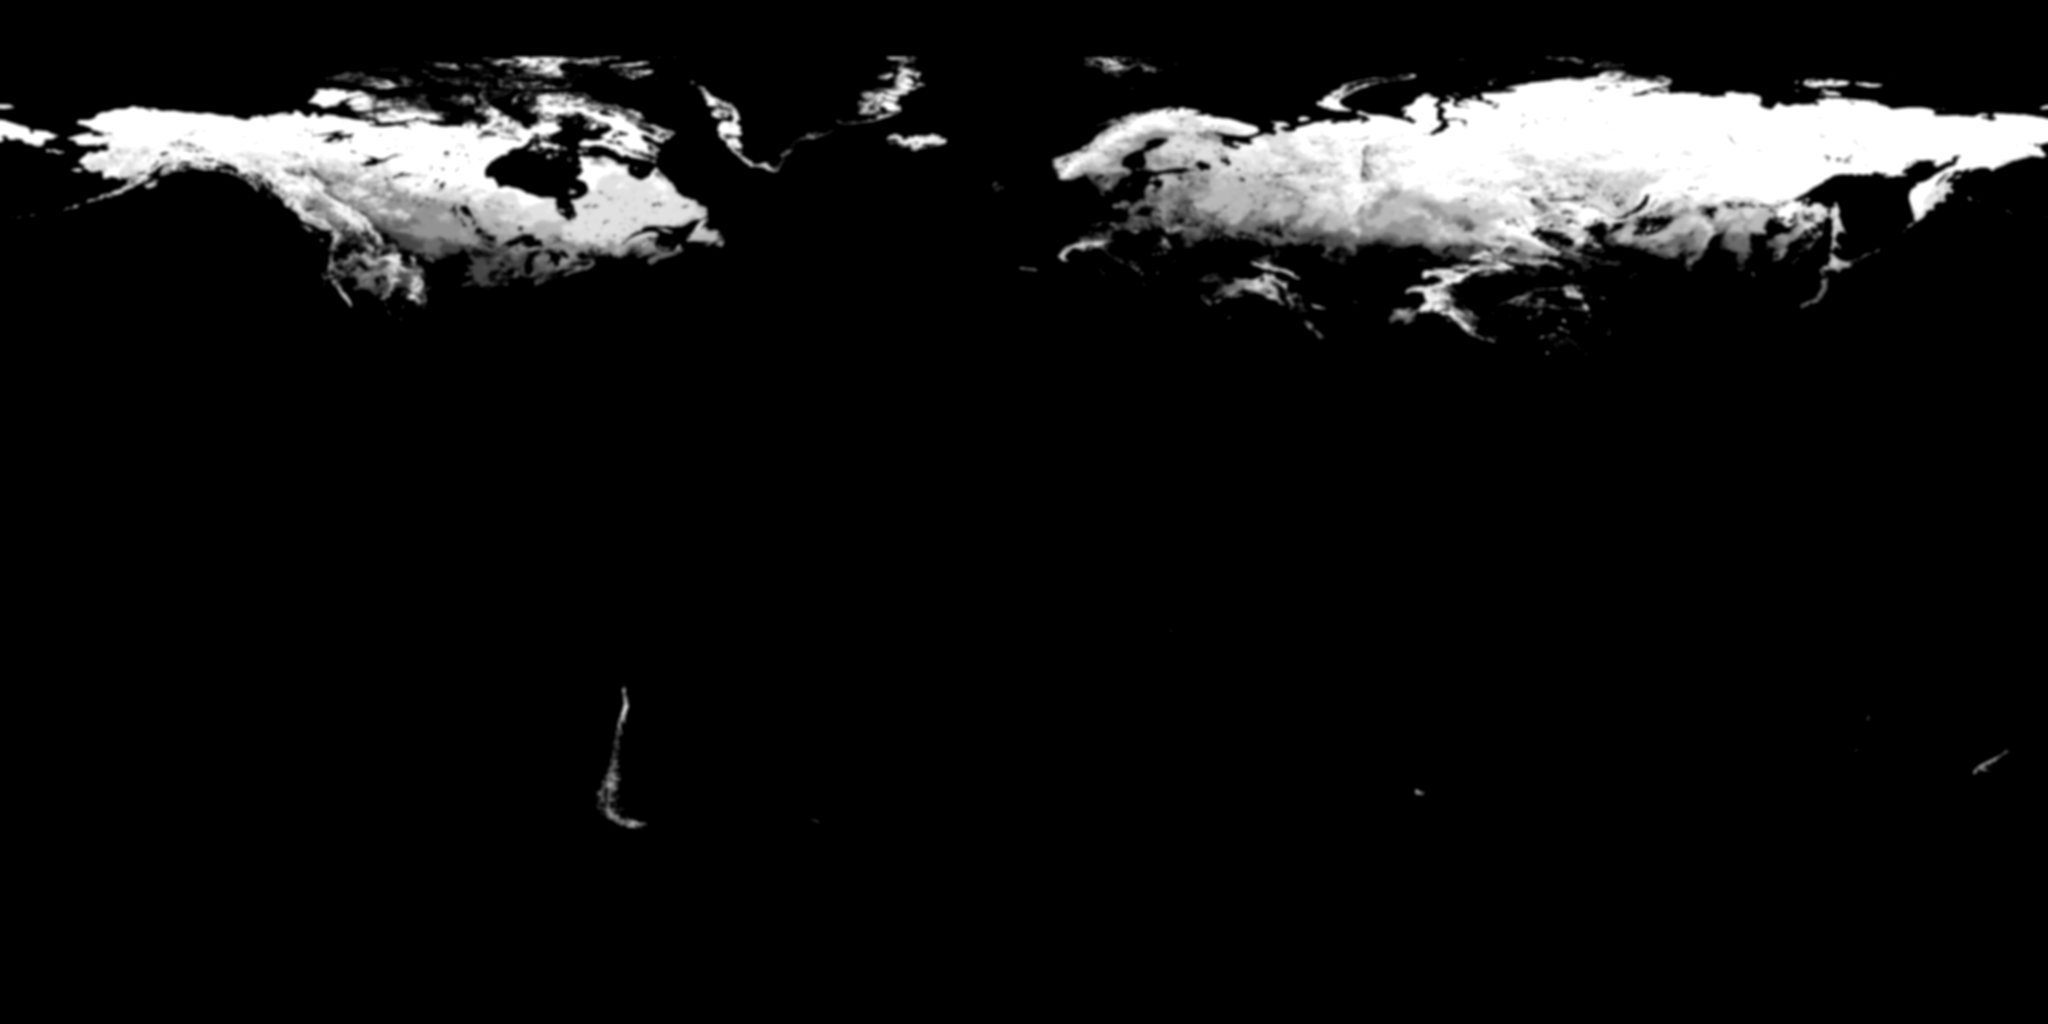
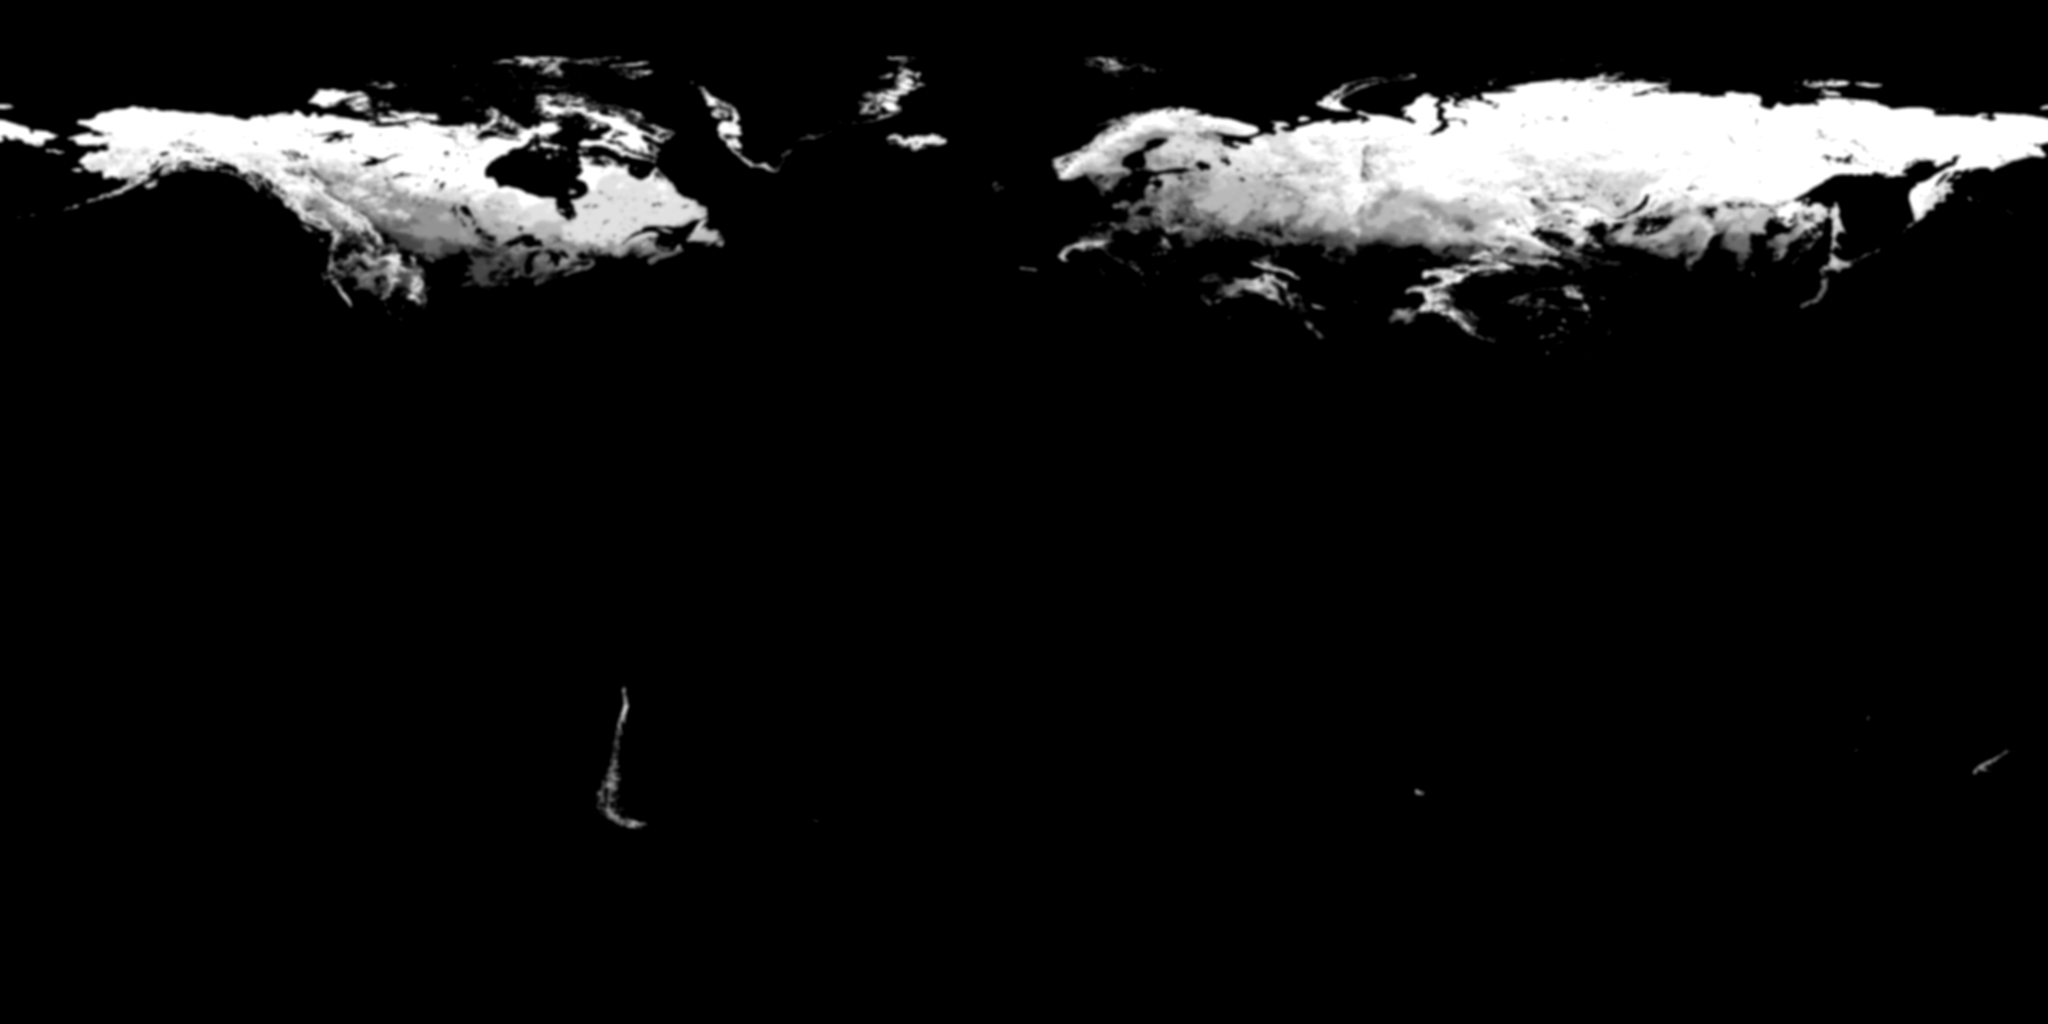
WIP planet: woods take the snow of the open ground about them; the snow's edge on high ground [skip ci]
Claude-Session: https://claude.ai/code/session_01CkFqLMvuGhuwnN1DAzGLbd

diff --git a/src/terrain.js b/src/terrain.js
@@ -554,7 +554,7 @@
       float snowMap = natv.a, snowL = 0.5 * log2(max(max(dot(dFdx(vGL), dFdx(vGL)), dot(dFdy(vGL), dFdy(vGL))), 1e-30)) + 9.0;      // (snowL: the level the card would take of the noise at one repeat a radian)
       // (it comes first to the heights and leaves them last: by the map alone, of cells twenty kilometres across, the snow of the
       //  Alps ended at one line over ridge and valley alike, and the ranges at a snowy country's edge stood bare beside it)
-      float snowHere = snowMap * (0.8 + min(max(vH, 0.0), 2400.0) * 0.0008);
+      float snowUp = 0.8 + min(max(vH, 0.0), 2400.0) * 0.0008, snowHere = snowMap * snowUp;
       float winterSnow = winter * mix(0.12, 1.0, smoothstep(0.05, 0.5, snowHere));
       float snowLine0 = max(-900.0, 5100.0 - 4800.0 * pow(latN0, 1.3) - max(0.0, winterSnow - 0.4) * seasonK + max(0.0, 0.4 - winter) * seasonK * 0.35) + clim * 700.0 * (1.0 - smoothstep(0.5, 0.75, latN0));
       float ice = max(info.g, white * max(smoothstep(snowLine0 - 900.0, snowLine0 + 200.0, vH), smoothstep(0.7, 0.8, latN0)));
@@ -936,7 +936,7 @@
         //  far out was white puffs on green, like cloud.)
         float rag = (nMac.g - 0.512) * 0.5 * (1.0 - smoothstep(3.0, 5.5, snowL + 7.23)) + (nMid.g - 0.512) * 0.3 * (1.0 - smoothstep(3.0, 5.5, snowL + 10.23));
         float sn = snowHere + rag * smoothstep(0.0, 0.15, snowMap);
-        float lying = clamp((sn - 0.07 - (1.0 - coldNow) * 1.15) / 0.45, 0.0, 1.0); snowLying = lying;
+        float lying = clamp((sn - 0.07 - (1.0 - coldNow) * 1.15) / (0.45 * max(1.0, snowUp * 0.8)), 0.0, 1.0); snowLying = lying;      // (on high ground the map counts for more, and would thin out over less of itself: the snow of Tibet lay in white pancakes)
         #else
         // (Snow lies on low ground only well away from the tropics. By the climate's map a cold desert is the Namib too, and a tundra
         //  the Puna of the Andes: each lay under a white sheet all its winter. Climates of mild winters keep snow from some forty
@@ -950,7 +950,7 @@
           //  field by field - and from close to in the hollows of the ground, in patches, as the snow of the heights does. That
           //  grain is what tells snow from cloud: laid on evenly as it thinned, the snow of a plain seen from far out was a white
           //  haze over the country.)
-          float open = clamp((lum0 - 0.2) * 3.0, -0.3, 0.4) * (1.0 - lying) * smoothstep(0.0, 0.25, lying);
+          float open = clamp((lum0 - 0.2) * 3.0, -0.3, 0.4) * smoothstep(0.2, 0.6, green) * (1.0 - lying) * smoothstep(0.0, 0.25, lying);      // (in green country: bare ground is light and says nothing by it)
           float cover = mix(smoothstep(0.35, 0.65, lying + ((0.5 - gHU) * 0.6 + (nFin.b - 0.43) * 0.3) * (1.0 - lying) * smoothstep(0.0, 0.25, lying) + open * 0.5), smoothstep(0.3, 0.7, lying + open * 0.7), smoothstep(0.004, 0.03, uCamAlt));
           // (a wood under snow is dark from above: the snow is on its floor, and the eye sees the trees - through bare boughs more of it)
           cover *= (1.0 - smoothstep(0.3, 0.65, slope)) * (1.0 - 0.75 * smoothstep(0.4, 0.7, dec.b)) * (1.0 - 0.45 * smoothstep(0.04, 0.22, dec.b)) * (1.0 - wForest * mix(0.38, 0.2, bare));

diff --git a/src/trees.js b/src/trees.js
@@ -270,7 +270,8 @@
     lyingAt(lon, lat, coldYear, h) {
       if (!this.snow) { const cold = Trees.COLD[this.climateAt(lon, lat)] || 0, thr = 1.02 - 0.55 * cold; return smooth(thr, thr + 0.1, coldYear) * smooth(0.08, 0.5, cold); }
       const sn = this.snow, real = this.samp(sn, (lon + 180) / 360 * sn.width, (90 - lat) / 180 * sn.height, 0);
-      return Math.min(1, Math.max(0, (real * (0.8 + Math.min(Math.max(h || 0, 0), 2400) * 0.0008) - 0.07 - (1 - coldYear) * 1.15) / 0.45));
+      const up = 0.8 + Math.min(Math.max(h || 0, 0), 2400) * 0.0008;
+      return Math.min(1, Math.max(0, (real * up - 0.07 - (1 - coldYear) * 1.15) / (0.45 * Math.max(1, up * 0.8))));
     }
     // bilinear sample of an ImageData channel at fractional pixel coords (wrapping x)
     samp(id, fx, fy, ch) {

diff --git a/tools/planet/snow.py b/tools/planet/snow.py
@@ -21,6 +21,7 @@ winters are white"; Trees.lyingAt is its twin for boughs and roofs).
 import os, sys, time, urllib.request
 import numpy as np
 from PIL import Image, ImageFilter
+from scipy.ndimage import gaussian_filter
 
 Image.MAX_IMAGE_PIXELS = None
 arg = lambda n, d=None: sys.argv[sys.argv.index('--' + n) + 1] if '--' + n in sys.argv else d
@@ -62,6 +63,17 @@ for k in range(7):
     need = 0.03 + 0.25 * ls
     snow += ss(need, need + 0.11, lw - ls) * grey(a) * ss(0.16, 0.30, lw) * (1.0 - sea) / 7.0
     del a, lw
+# A wood keeps its own counsel: the larch of Yakutia under a low sun is as dark in January as in July, and the woods of
+# Minnesota little lighter - by their own look they had no winter, and lay as dark holes in the snow of a continent. Snow
+# lies in a wood when it lies on the open ground about it: a wood (dark and green in summer) takes what the open ground
+# within some eighty kilometres has, or within three hundred where there is none so near.
+wood = ss(0.24, 0.14, ls) * ss(0.0, 0.03, summer[..., 1] - np.maximum(summer[..., 0], summer[..., 2]) * 0.92) * (1.0 - sea)
+w0 = (1.0 - sea) * (1.0 - wood)
+def about(sig): b = gaussian_filter(w0, sig, mode=('nearest', 'wrap')); return gaussian_filter(snow * w0, sig, mode=('nearest', 'wrap')) / np.maximum(b, 1e-4), b
+(m1, b1), (m2, b2) = about(8.0), about(30.0)
+filled = np.maximum(snow, np.where(b1 > 0.08, m1, m2) * wood * 0.95)
+print('woods given the snow of the open ground about them: %.1f%% of the land, its mean share of the season %.2f -> %.2f' % (100.0 * (wood > 0.5).sum() / max(1, (sea < 0.5).sum()), snow[wood > 0.5].mean(), filled[wood > 0.5].mean()))
+snow = filled; del m1, m2, b1, b2, w0, filled
 # (to the map's own cells, then smoothed over some sixty kilometres: what is left of a month's yes or no is how likely it is)
 snow = np.array(Image.fromarray(np.rint(snow * 255).astype(np.uint8)).resize((W, H), Image.BOX).filter(ImageFilter.GaussianBlur(1.6))).astype(np.float32) / 255.0
 snow = np.clip((snow - 0.03) / 0.94, 0.0, 1.0)

diff --git a/CLAUDE.md b/CLAUDE.md
@@ -122,6 +122,11 @@ hold back for phones or weak GPUs); a lighter web build may be published as a pr
   builder - a comment too - the pack must be made before `main` is pushed** (the game's build stops without it:
   `PLANET_STRICT`; elsewhere the pack made last is taken, with a warning). `MODE=probe tools/planet/pack.sh [urls |
   months | sheet | tiff]` looks at the sources.
+- `REF=<branch> MODE=snow PICS="planet_snow.jpg snow.png" tools/planet/pack.sh` — makes the map of the Earth's own
+  winters (`tools/planet/snow.py`, two minutes): `shots/peek/snow.png`, which is copied to `data/snow.png` by hand and
+  committed (it is small), and `planet_snow.jpg` to look at (the summer with the map's snow on it, over the Blue
+  Marble's own January). Its log prints the share of the land that has snow by latitude and the value at some
+  thirty places (Moscow 0.7, Winnipeg 0.55, Berlin 0, Tibet 0): look at them after touching its rule.
 - `tools/water/pack.sh` — makes the water's edge on GitHub (the Water workflow runs `tools/water/build.py`: its sources
   are on AWS, out of reach from here) and brings it here: `data/w/` (`index.json` and 1,484 packs, kept in 157
   bundles of sixteen: `<level>_b<x>_<y>.bin`, a table and then the packs' own files; `fetch.mjs` makes them, always
@@ -496,7 +501,29 @@ Conventions that matter:
   **The planet's own maps are one texture of two layers** (`uInfo`, a `sampler2DArray`: `planetMaps` in `main.js`):
   `info.png` and under it `veg.jpg` at the same size - the ground's shader has all sixteen textures, and a layer
   costs none. `info.png` is read back through the card (`pixelsOf`): a 2D canvas keeps colour multiplied by alpha,
-  and its alpha is how dry the country is.
+  and its alpha is how dry the country is. The second layer's alpha is the snow of the Earth's own winters (below).
+- **Winter** (`data/snow.png`, `tools/planet/snow.py`; `snowMap` in `terrain.js`, `Trees.lyingAt`). Where snow lies,
+  and for how much of the year, is the Earth's own: the Blue Marble has every month, and the map is the share of a
+  cold season's seven months (October to April in the north, April to October in the south) in which a place was
+  white or grey and had not been in summer - all of them in Siberia, five at Moscow, four at Winnipeg, one in the
+  Ukraine, none at Berlin, none in Tibet (which is dry: by the climate's class it was an ice cap half the year, and
+  a cold desert from the Tarim to the Namib lay white). A wood's winter is measured as a wood's: under snow it is
+  grey, not white. Snow lies where `map x height > 0.07 + 1.15 x (1 - the cold of the year)` (`uBare.z/.w`, a month
+  behind the sun): deep winter takes in every place that has any, and the edges of the season only where it lies
+  all winter; the height counts for much (0.8 at the sea, 2.7 from 2,400 m), so that at its edge the snow keeps to
+  the hills, and comes to them first and leaves them last. The same number brings the snow line of the mountains
+  down in winter (`winterSnow`). **It does not end at a line.** It thins out over half the map's range, and where
+  it thins it lies on open ground before the woods: the photograph's own light and dark, field by field (`lum0`),
+  say which is which, and from close to the hollows of the ground's own material do (`gHU`). That grain is what
+  tells snow from cloud. Three things that were tried and looked wrong: January alone (a yes or no: the snow of
+  Europe was a white sheet with a ruled edge through Poland); noise the size of a country added to the map, or
+  the map looked up a little way off by it (white puffs on green, and the snow of the Alps lying beside the Alps);
+  the place's finer noise from far out (read that coarse a noise is a lattice: the snow's edge was a row of
+  scallops - `snowL` fades each size out before then). A wood under snow is dark from above (`wForest` hides four
+  tenths of it, two under bare boughs), and snow lights its own shade (the ambient light is up to twice as much
+  and bluer on it: shaded as other ground, a winter's mountains were white and navy). Roofs and boughs ask
+  `trees.lyingAt(lon, lat, cold, height)`, the same sum without the grain. Look at Europe and North America from
+  2,500 km and more, Poland from 600, the Alps from 300 and 80 and a town in the snow after touching any of it.
 - **The water's edge** (`data/w`, `tools/water/build.py`; `uWater` in `terrain.js`). A field of distances: how
   many metres it is from every place to the nearest shore (land positive), 305 m to a texel at level 7 and the
   same at half and a quarter the fineness (levels 6 and 5), in packs of 2052 texels with a rim of two. Its nought
@@ -637,7 +664,7 @@ Conventions that matter:
 - **Climate.** `data/climate.png` is the Köppen-Geiger class of every eighth of a degree, and `data/info.png`
   carries two fields made from it: alpha = how dry the country is (the ground shader blends sand, stony plain,
   scrub, steppe and savanna by it; the photograph only says where the ground is bare), blue = how hard the winters
-  are (snow lies on the ground and on roofs by it, in season). Trees take their zone and their density from the
+  are (still water freezes by it; where snow lies is no longer the climate's to say: see "Winter"). Trees take their zone and their density from the
   class (`zoneOf`, `Trees.THIN`). Rebuild both with `tools/climate/build.py` (the source and its licence are in the
   file's header). The year: `uSeason` (sun), `uBare` (leaves down N/S, the cold of the year N/S, a month behind the sun).
 - **Rivers** are drawn wider than life (`drawnWidth()` in `decal.js`: brooks four times, great rivers twice), like
